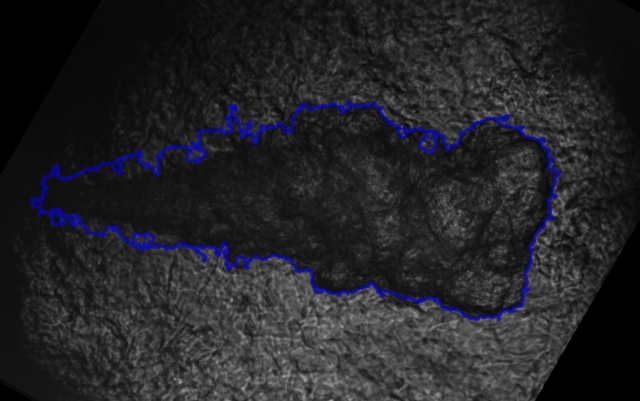
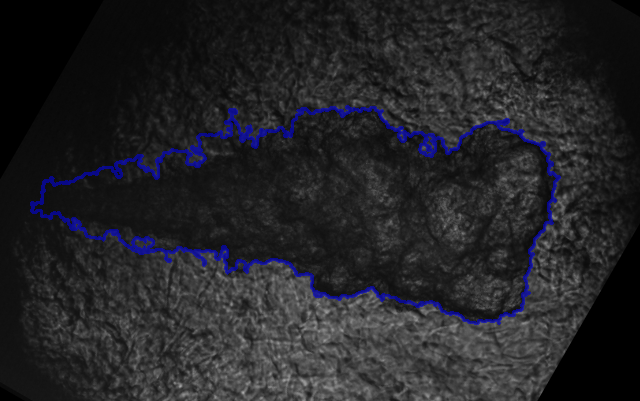
Add threaded Farneback flow and fusion option
Enable multithreaded optical-flow processing and add an alternative fusion scheme. opticalFlow.runOpticalFlowCalculationWeighted now accepts a workers parameter and uses ThreadPoolExecutor to compute Farneback flow in parallel with a sequential fallback, input validation and improved error reporting. main_weighted.py comments out DeepFlow/visualization code (opencv-contrib dependent) and restructures the component fusion: retains the multiplicative product path and adds a commented/optional soft Bayesian fusion (logit-weighted) implementation with normalization/clipping. spray_origins.json gains a new entry; compiled Python caches and a comparison PNG were also updated.

diff --git a/main_weighted.py b/main_weighted.py
@@ -149,31 +149,30 @@ for file in all_files:
     
     video_strip = vpf.applyCLAHE(video_strip)
 
-    deepflow = cv2.optflow.createOptFlow_DeepFlow() # type: ignore, requires opencv-contrib-python
+    # deepflow = cv2.optflow.createOptFlow_DeepFlow() # type: ignore, requires opencv-contrib-python
 
-    for i in range(1, nframes):
-        flow = of.opticalFlowFarnebackCalculation(video_strip[i-1], video_strip[i]) # Just to test the function and visualize the result, press any key to continue
-        flow_deep = of.opticalFlowDeepFlowCalculation(video_strip[i-1], video_strip[i], deepflow) # Just to test the function and visualize the result, press any key to continue
+    # for i in range(1, nframes):
+    #     flow = of.opticalFlowFarnebackCalculation(video_strip[i-1], video_strip[i]) # Just to test the function and visualize the result, press any key to continue
+    #     flow_deep = of.opticalFlowDeepFlowCalculation(video_strip[i-1], video_strip[i], deepflow) # Just to test the function and visualize the result, press any key to continue
 
-        mag, ang = cv2.cartToPolar(flow[..., 0], flow[..., 1])
-        mag_deep, ang_deep = cv2.cartToPolar(flow_deep[..., 0], flow_deep[..., 1])
+    #     mag, ang = cv2.cartToPolar(flow[..., 0], flow[..., 1])
+    #     mag_deep, ang_deep = cv2.cartToPolar(flow_deep[..., 0], flow_deep[..., 1])
 
-        mag_vis = cv2.normalize(mag, None, 0, 255, cv2.NORM_MINMAX).astype(np.uint8)
-        mag_deep_vis = cv2.normalize(mag_deep, None, 0, 255, cv2.NORM_MINMAX).astype(np.uint8)
+    #     mag_vis = cv2.normalize(mag, None, 0, 255, cv2.NORM_MINMAX).astype(np.uint8)
+    #     mag_deep_vis = cv2.normalize(mag_deep, None, 0, 255, cv2.NORM_MINMAX).astype(np.uint8)
 
-        ang_vis = (ang * 180 / np.pi / 2).astype(np.uint8) # Convert angle to [0,255] for visualization
-        ang_deep_vis = (ang_deep * 180 / np.pi / 2).astype(np.uint8) # Convert angle to [0,255] for visualization
-        cv2.imshow("Optical Flow Magnitude", mag_vis)
-        cv2.imshow("Optical Flow Angle", ang_vis)
-        cv2.imshow("Optical Flow Deep Magnitude", mag_deep_vis)
-        cv2.imshow("Optical Flow Deep Angle", ang_deep_vis)
-        key = cv2.waitKey(30) & 0xFF
-        if key == ord('q'):
-            break
-        if key == ord('p'):
-            cv2.waitKey(-1)
-        
-    break
+    #     ang_vis = (ang * 180 / np.pi / 2).astype(np.uint8) # Convert angle to [0,255] for visualization
+    #     ang_deep_vis = (ang_deep * 180 / np.pi / 2).astype(np.uint8) # Convert angle to [0,255] for visualization
+    #     cv2.imshow("Optical Flow Magnitude", mag_vis)
+    #     cv2.imshow("Optical Flow Angle", ang_vis)
+    #     cv2.imshow("Optical Flow Deep Magnitude", mag_deep_vis)
+    #     cv2.imshow("Optical Flow Deep Angle", ang_deep_vis)
+    #     key = cv2.waitKey(30) & 0xFF
+    #     if key == ord('q'):
+    #         break
+    #     if key == ord('p'):
+    #         cv2.waitKey(-1)
+
     # for i in range(nframes):
     #     cv2.imshow("CLAHE Video Strip", video_strip[i]) # Display CLAHE result for verification, press any key to continue
     #     cv2.imshow("Original Video Strip", video_strip2[i]) # Display original result for verification, press any key to continue
@@ -487,16 +486,60 @@ for file in all_files:
         if np.count_nonzero(freehand) == 0:
             freehand = np.ones_like(freehand, dtype=np.float32)
 
-        # --- Combine: product (agreement) ---
-        comp_int = (intensity_n + eps) ** norm_intensity
-        comp_motion = (mag_n + eps) ** norm_magnitude
-        comp_free = (freehand + eps) ** norm_freehand
-        comp_cone = (cone + eps) ** norm_cone
+        if True:
+            # --- Combine: product (agreement) ---
+            comp_int = (intensity_n + eps) ** norm_intensity
+            comp_motion = (mag_n + eps) ** norm_magnitude
+            comp_free = (freehand + eps) ** norm_freehand
+            comp_cone = (cone + eps) ** norm_cone
 
-        # Assume components are already in [0,1]; combine as joint probability
-        combined_score = comp_int * comp_motion * comp_free * comp_cone
-        # Optional: Normalize to [0,1] 
-        combined_score = combined_score / np.max(combined_score) if np.max(combined_score) > 0 else combined_score
+            # Assume components are already in [0,1]; combine as joint probability
+            combined_score = comp_int * comp_motion * comp_free * comp_cone
+            # Optional: Normalize to [0,1] 
+            combined_score = combined_score / np.max(combined_score) if np.max(combined_score) > 0 else combined_score
+
+        else:
+        ###############
+            # --- Combine: Soft Bayesian fusion via weighted log-odds (logit) ---
+            # Convert component probabilities to log-odds, weight them, then map back with sigmoid.
+            # This implements a soft Bayesian fusion where weights act on evidence in log-space
+            # instead of multiplying probabilities (which can be dominated by near-zero terms).
+            
+            def _logit(p):
+                # stable logit with small eps to avoid division by zero / log(0)
+                return np.log((p + eps) / (1.0 - p + eps))
+            
+            def _sigmoid(x):
+                return 1.0 / (1.0 + np.exp(-x))
+            
+            # Compute log-odds for each component (safe with eps)
+            logit_int    = _logit(intensity_n)
+            logit_motion = _logit(mag_n)
+            logit_free   = _logit(freehand)
+            logit_cone   = _logit(cone)
+            
+            # Weighted sum of log-odds using normalized weights
+            L = (norm_intensity * logit_int
+                + norm_magnitude * logit_motion
+                + norm_freehand * logit_free
+                + norm_cone * logit_cone)
+            
+            # Optional temperature parameter to control sharpness (1.0 = default)
+            temperature = 1.0
+            combined_score = _sigmoid(L / temperature)
+            
+            # Safety: ensure result in [0,1]
+            combined_score = np.clip(combined_score, 0.0, 1.0)
+            
+            # For reference: previous multiplicative (product) scheme (commented)
+            # comp_int = (intensity_n + eps) ** norm_intensity
+            # comp_motion = (mag_n + eps) ** norm_magnitude
+            # comp_free = (freehand + eps) ** norm_freehand
+            # comp_cone = (cone + eps) ** norm_cone
+            # combined_score_product = comp_int * comp_motion * comp_free * comp_cone
+            # combined_score_product = combined_score_product / np.max(combined_score_product) if np.max(combined_score_product) > 0 else combined_score_product
+
+        ###############
 
         # Optional: map combined_score to 0..255 for diagnostics
         combined_255 = np.clip((combined_score * 255.0), 0, 255).astype(np.uint8)

diff --git a/opticalFlow.py b/opticalFlow.py
@@ -115,31 +115,61 @@ def runOpticalFlowCalculation(firstFrameNumber, video, method, deepflow=None):
     
 
 
-def runOpticalFlowCalculationWeighted(firstFrameNumber, video, method, deepflow=None):
+def runOpticalFlowCalculationWeighted(firstFrameNumber, video, method, deepflow=None, workers=None):
     import cv2
     import numpy as np
+    from concurrent.futures import ThreadPoolExecutor, as_completed
+    import os
 
     first_frame = video[firstFrameNumber]
-    prev_frame = first_frame
-
     nframes = video.shape[0]
     mag_array = np.zeros_like(video, dtype=np.float32)
 
-    if method == 'Farneback':
-        for i in range(firstFrameNumber, nframes): # limit to half for testing
-            frame = video[i]
-
-            flow = opticalFlowFarnebackCalculation(prev_frame, frame) 
-
-            # Compute magnitude (motion strength) and angle (not needed here)
-            mag, ang = cv2.cartToPolar(flow[..., 0], flow[..., 1])
-
-            mag_array[i] = mag
-
-            prev_frame = frame
-
-            print(f"Processed frame {i+1}/{nframes}")
-
-        return mag_array # return only magnitude for weighted processing
-    else:
+    if method != 'Farneback':
         raise ValueError(f"Unsupported optical flow method: {method}")
+
+    indices = list(range(firstFrameNumber, nframes))
+    if workers is None:
+        cpu = os.cpu_count() or 1
+        max_workers = min(max(1, cpu), len(indices))
+    else:
+        max_workers = max(1, min(int(workers), len(indices)))
+
+    # sequential fallback
+    if max_workers <= 1:
+        prev_frame = first_frame
+        for i in indices:
+            frame = video[i]
+            flow = opticalFlowFarnebackCalculation(prev_frame, frame)
+            mag, _ = cv2.cartToPolar(flow[..., 0], flow[..., 1])
+            mag_array[i] = mag
+            prev_frame = frame
+            print(f"Processed frame {i+1}/{nframes}")
+        return mag_array
+
+    def _worker_task(i, prev_frame, frame):
+        flow = opticalFlowFarnebackCalculation(prev_frame, frame)
+        mag, _ = cv2.cartToPolar(flow[..., 0], flow[..., 1])
+        return i, mag
+
+    tasks = []
+    for i in indices:
+        prev = first_frame if i == firstFrameNumber else video[i - 1]
+        frame = video[i]
+        tasks.append((i, prev, frame))
+
+    with ThreadPoolExecutor(max_workers=max_workers) as executor:
+        futures = {executor.submit(_worker_task, t[0], t[1], t[2]): t[0] for t in tasks}
+        completed = 0
+        for fut in as_completed(futures):
+            idx = futures[fut]
+            try:
+                i, mag = fut.result()
+            except Exception as e:
+                raise RuntimeError(f"Optical flow worker failed for frame {idx}: {e}")
+            mag_array[i] = mag
+            completed += 1
+            if (completed % 10 == 0) or (completed == len(futures)):
+                print(f"Processed {completed}/{len(futures)} optical flow tasks")
+
+    return mag_array
